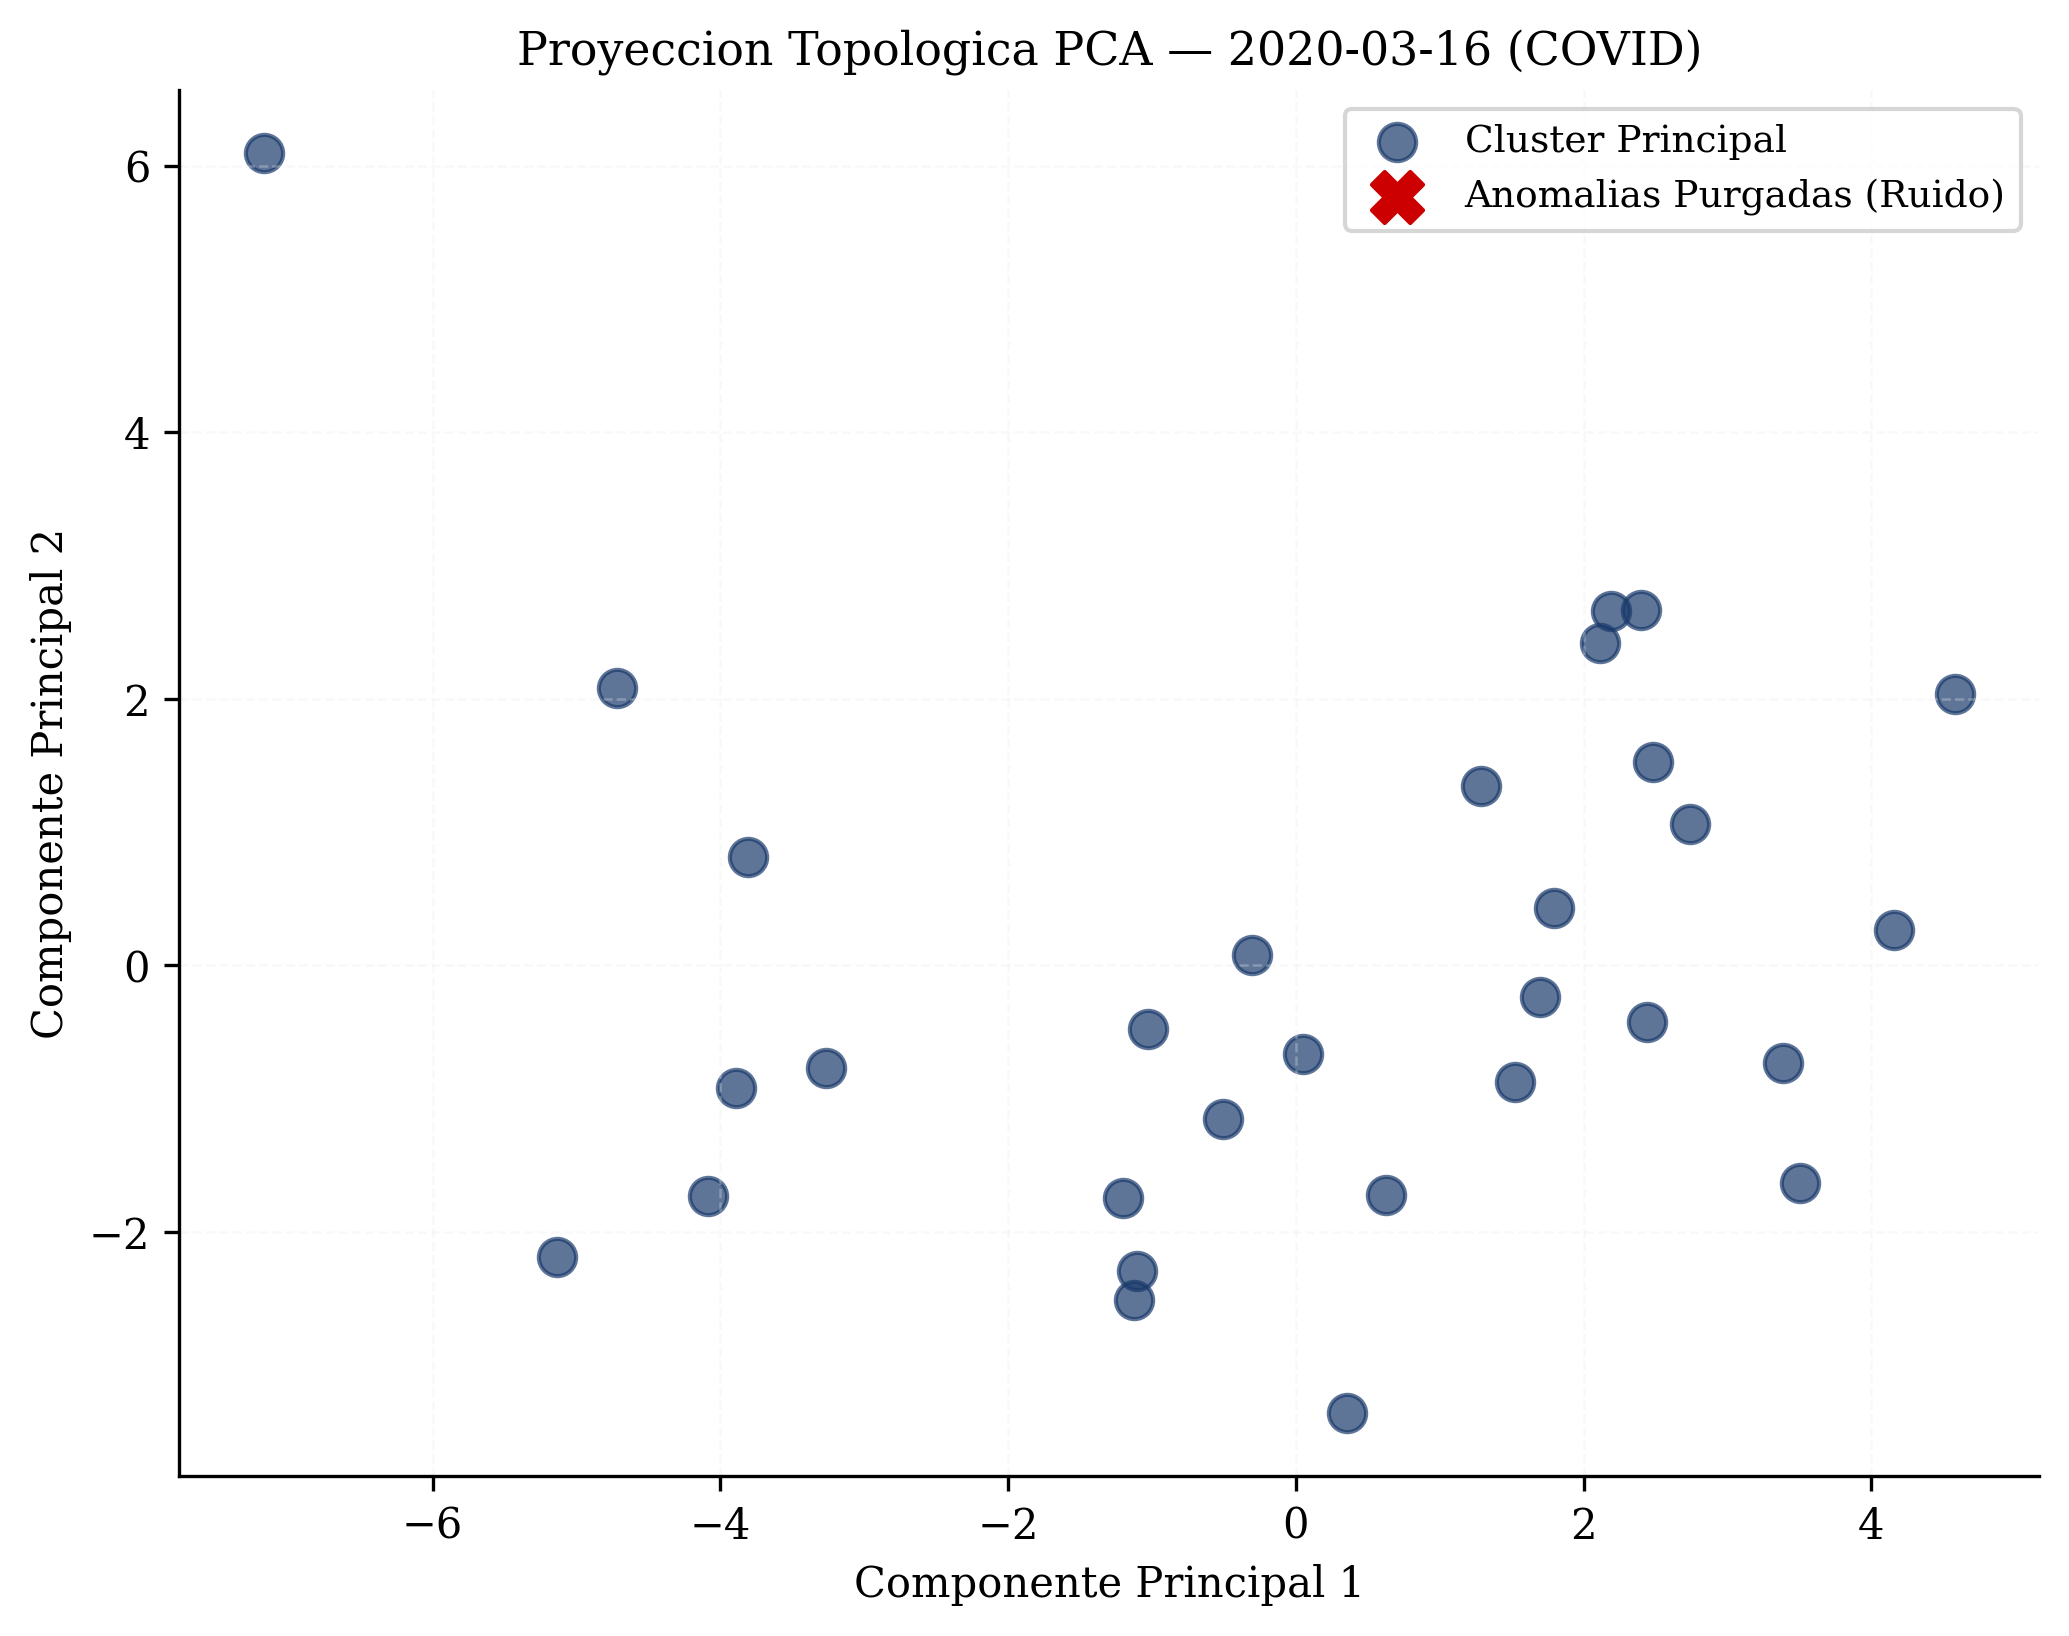
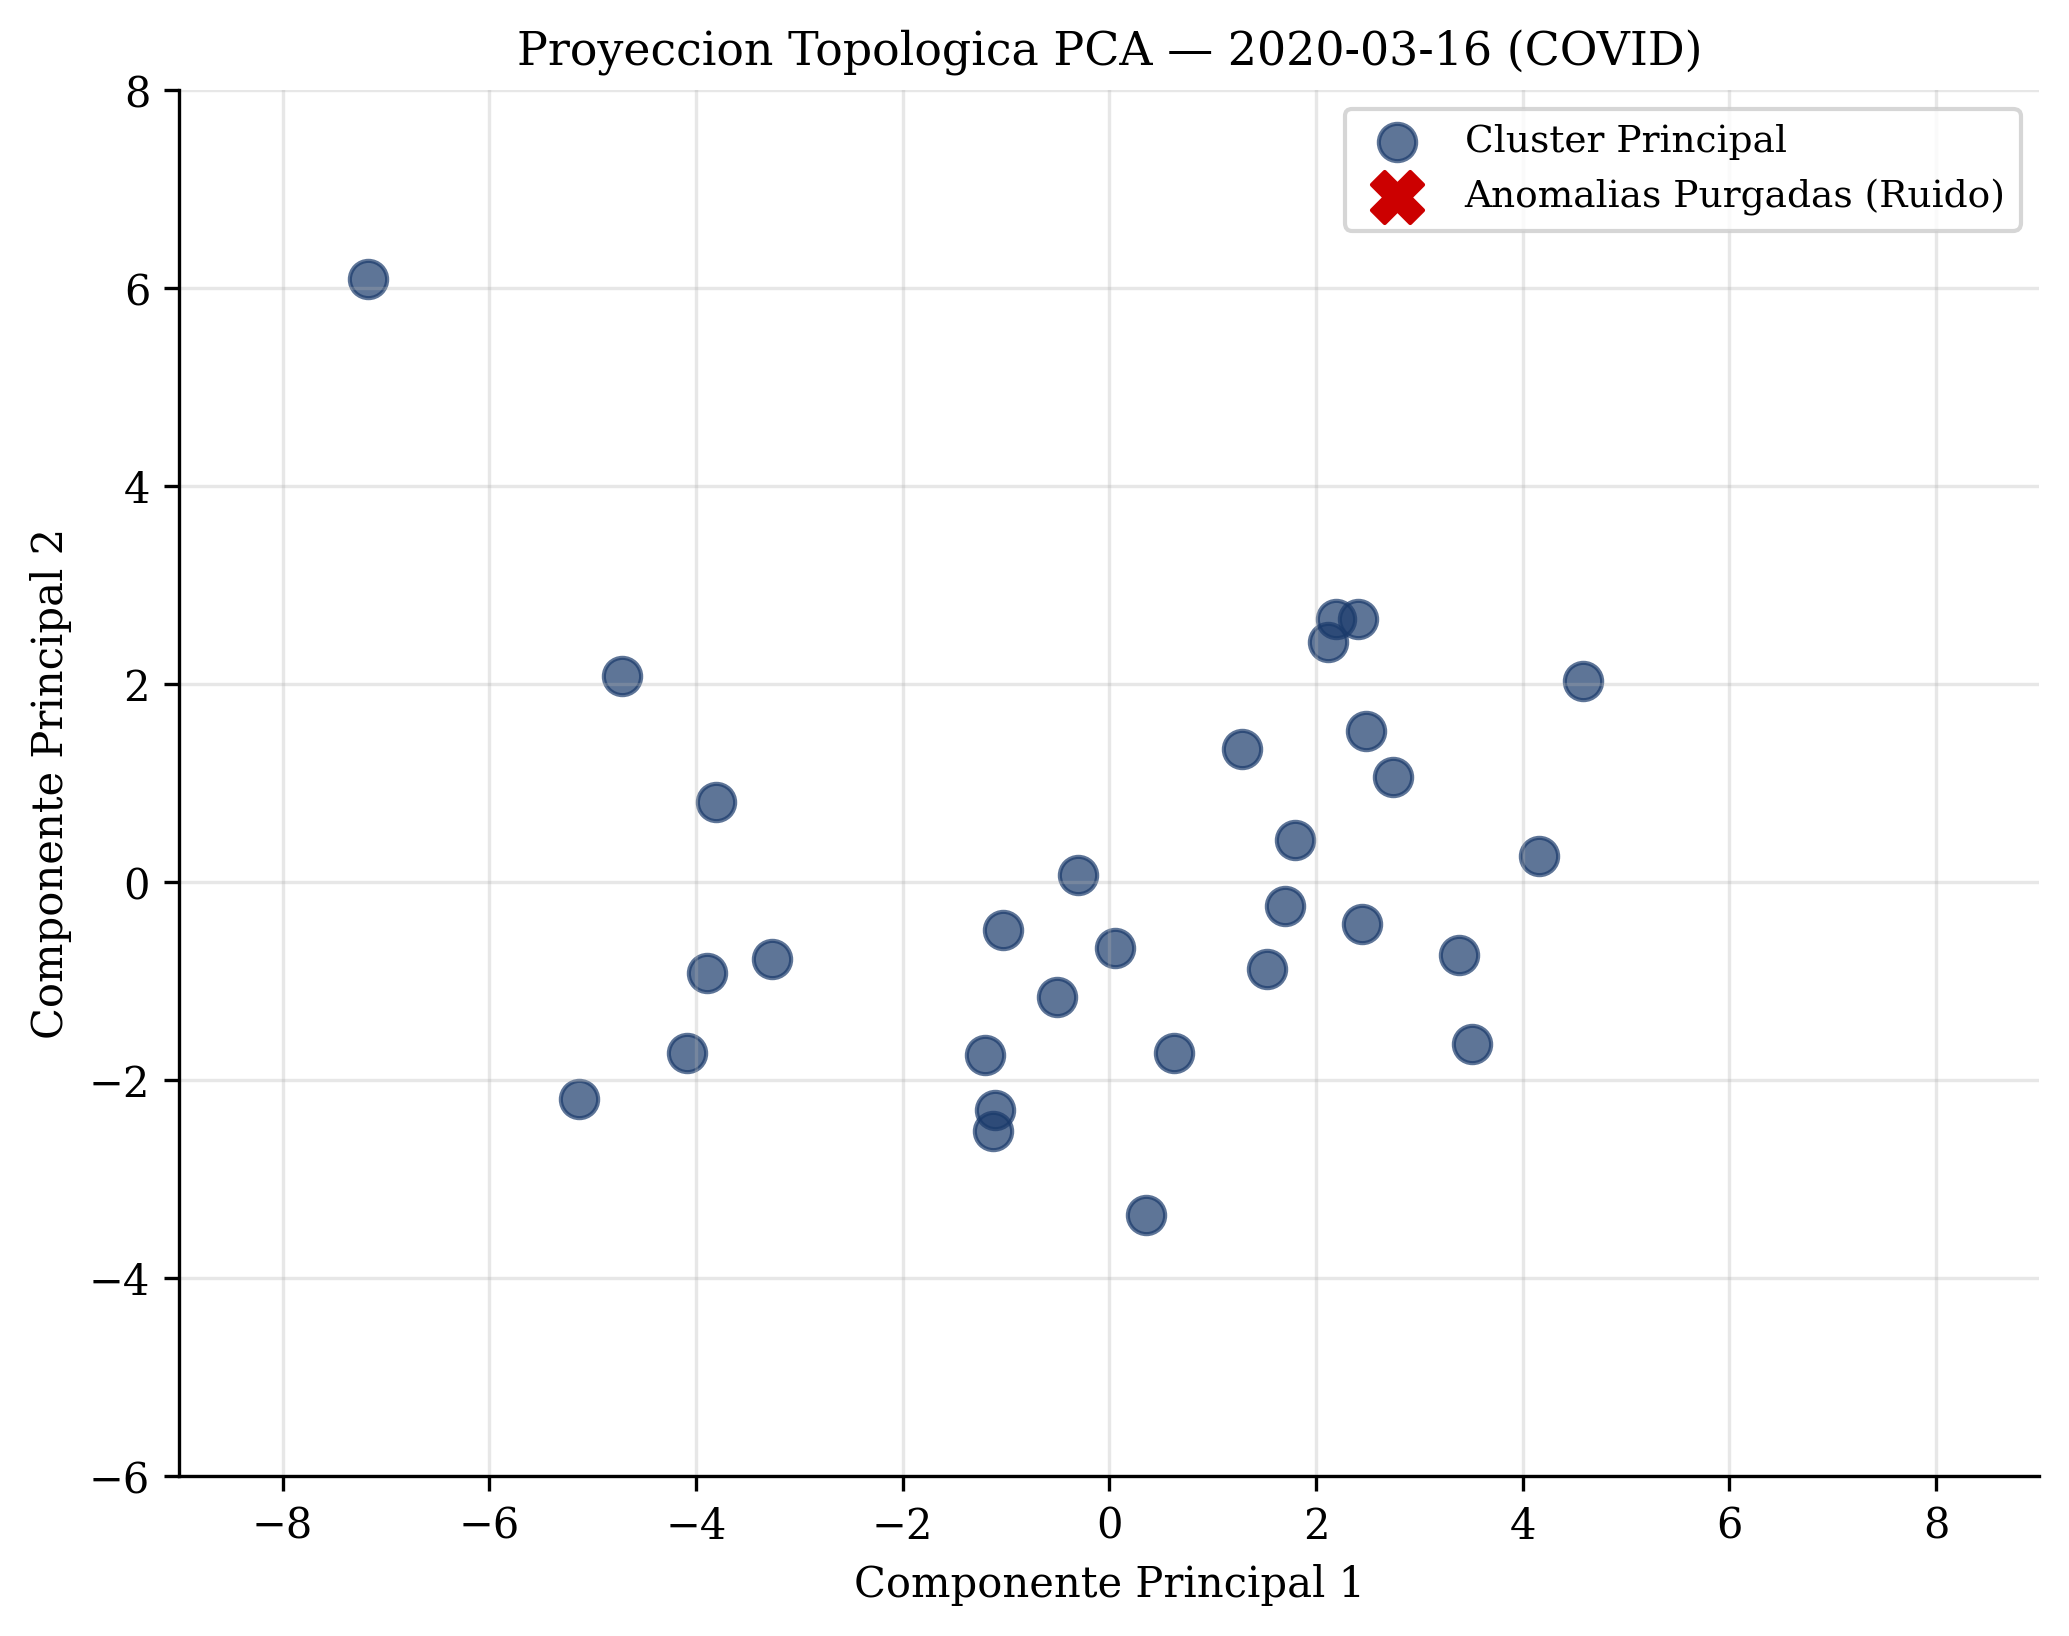
Fix: Comentadas imágenes faltantes y actualizada imagen PCA Covid

diff --git a/docs/latex/tfm.tex b/docs/latex/tfm.tex
@@ -7,6 +7,7 @@
     \renewcommand{\tablename}{Tabla}
 }
 \usepackage{caption}
+\usepackage{subcaption}
 \captionsetup{compatibility=false}
 \usepackage{xcolor}
 \usepackage{amsmath,amssymb}
@@ -629,13 +630,16 @@ En los Paneles A y B se ilustra la evolución acumulada de las carteras de ganad
 	
 	\begin{figure}[H]
 		\centering
-		\includegraphics[width=5.76667in,height=4.01906in]{media/image005.png}
+		\includegraphics[width=\textwidth]{media/image005.png}
 		\caption{\protect\phantomsection\label{_Toc227174289}{}Clasificación de activos en el espacio riesgo-rentabilidad mediante el
 			algoritmo KMeans. Los puntos sólidos representan los centroides \(\mu_{i}\)
 			calculados según la Ecuación~\eqref{eq:kmeans_centroid}, mientras que
 			las regiones sombreadas delimitan las fronteras de decisión de cada
 			clúster. Fuente: Elaboración propia.}
+	\label{fig:kmeans_example}
 	\end{figure}
+
+	En la Figura~\ref{fig:kmeans_example} se observa un ejemplo al aplicar K-Means sobre el plano riesgo-rentabilidad. Cada color representa un clúster y los puntos sólidos los centroides $\mu_i$. Se aprecia cómo los activos se organizan en grupos (alta rentabilidad-alto riesgo frente a baja rentabilidad-bajo riesgo), confirmando que el algoritmo puede capturar regímenes de mercado diferenciados a partir de las variables de entrada. En esta representación bidimensional se han utilizado únicamente dos variables (rentabilidad y volatilidad) con fines de visualización. A lo largo del informe se observará que el sistema emplea un conjunto más amplio de variables financieras, lo que permite dividir el conjunto de datos en grupos de mayor dimensionalidad, capturando relaciones más complejas entre los activos.
 
 	La convergencia local del algoritmo se logra mediante un proceso alternativo de dos pasos: asignación y actualización. En el paso de asignación, cada observación vectorial del mercado financiero se vincula de manera exclusiva al centroide más próximo bajo la norma euclídea analizada en la Ecuación~\eqref{eq:euclidean_distance}. En el paso de actualización, expresado en la Ecuación~\eqref{eq:kmeans_centroid}, la coordenada del centroide se desplaza hacia la media geométrica de su nueva población. Este bucle se repite de manera iterativa hasta que la función objetivo de la Ecuación~\eqref{eq:kmeans_wcss} estabilice su inercia global. Sin embargo, este criterio de optimización por mínimos cuadrados penaliza de forma cuadrática las distancias, provocando que cualquier punto situado en las regiones periféricas del espacio vectorial ejerza una fuerza de atracción desproporcionada sobre la trayectoria del centroide $\mu_i$.
 	
@@ -704,7 +708,10 @@ En los Paneles A y B se ilustra la evolución acumulada de las carteras de ganad
 		\caption{\protect\phantomsection\label{_Toc227174290}{}Clasificación topológica en \gls{dbscan}: Identificación de puntos núcleo,
 			frontera y ruido en función del radio $\epsilon$ y MinPts. Fuente: Elaboración
 			propia.}
+	\label{fig:dbscan_categories}
 	\end{figure}
+
+	En la Figura~\ref{fig:dbscan_categories} se muestran las tres categorías topológicas: los puntos núcleo (rojo) forman el esqueleto del clúster; los puntos frontera (amarillo) se sitúan en el perímetro; y el ruido (azul) queda aislado al no alcanzar la densidad crítica dentro del radio $\epsilon$. Esta separación visual permite entender cómo DBSCAN distingue el comportamiento mayoritario del mercado de las desviaciones catalogadas como ruido.
 
 	\begin{figure}[H]
 		\centering
@@ -1552,18 +1559,31 @@ Durante la sesión del 16 de marzo de 2020, el índice \gls{vix} alcanzó nivele
 
 \begin{figure}[H]
     \centering
-    \includegraphics[width=0.85\textwidth]{media/pca_scatter_covid.png}
-    \caption{Visualización topológica del colapso del 16 de marzo de 2020 mediante proyección \gls{pca}. La cohesión del clúster principal refleja un movimiento generalizado del mercado ante un shock externo. Fuente: Elaboración propia.}
-    \label{fig:pca_covid}
+    \begin{subfigure}{0.48\textwidth}
+        \centering
+        \includegraphics[width=\textwidth]{media/pca_scatter_covid.png}
+        \caption{Colapso del 16 de marzo de 2020: el desplazamiento conjunto del mercado mantiene la cohesión del clúster.}
+        \label{fig:pca_covid}
+    \end{subfigure}
+    \hfill
+    \begin{subfigure}{0.48\textwidth}
+        \centering
+        \includegraphics[width=\textwidth]{media/pca_scatter_anomaly.png}
+        \caption{Sesión normal del 24 de octubre de 2017: tres activos (CAT, DPZ e ITX.MC) son clasificados como ruido y purgados.}
+        \label{fig:pca_anomaly}
+    \end{subfigure}
+    \caption{Comparativa de proyecciones PCA del espacio de características en dos escenarios de mercado. Izquierda: shock sistémico sin detección de anomalías. Derecha: sesión ordinaria con identificación de activos anómalos. Fuente: Elaboración propia.}
 \end{figure}
 
-Como puede observarse en la Figura \ref{fig:pca_covid}, el algoritmo no eliminó ningún activo durante esa sesión. A pesar de las fuertes caídas registradas, los valores mantuvieron un comportamiento relativamente homogéneo entre sí dentro del espacio de características. No obstante, conviene realizar dos precisiones técnicas sobre esta representación:
+Como puede observarse en la Figura \ref{fig:pca_covid}, el algoritmo no eliminó ningún activo durante esa sesión. A pesar de las fuertes caídas registradas, los valores mantuvieron un comportamiento relativamente homogéneo entre sí dentro del espacio de características. No obstante, conviene realizar dos observaciones sobre esta representación:
 
 \begin{itemize}
     \item Efecto de la reducción de dimensionalidad: Aunque en la proyección bidimensional obtenida mediante \gls{pca} algunos activos puedan aparecer en posiciones periféricas, esto responde en muchos casos a una limitación propia de la representación visual. Al reducir un espacio multidimensional a dos componentes principales, parte de la información se pierde. Sin embargo, en el espacio original, dichos activos continúan situándose dentro de las distancias permitidas por el radio $\epsilon_t$ calculado por el modelo.
 
     \item Adaptabilidad del radio de vecindad: En días de volatilidad elevada, la dispersión natural entre observaciones aumenta. Gracias al cálculo dinámico del percentil 90 de distancias, el umbral $\epsilon_t$ se amplía automáticamente, permitiendo que el clúster principal incorpore el movimiento conjunto del mercado sin clasificar erróneamente activos válidos como ruido.
 \end{itemize}
+
+Para contrastar, la Figura~\ref{fig:pca_anomaly} muestra una sesión de mercado normal donde el filtro topológico sí identificó activos cuyo comportamiento se desviaba del resto. Los tres activos señalados (CAT, DPZ e ITX.MC) superaron el umbral de densidad $\epsilon_t$ establecido por el percentil~90 de distancias, siendo etiquetados como anomalías y eliminados de la matriz de datos. Esta evidencia completa la validación del sistema: cuando existen datos anómalos, DBSCAN los identifica y purga; cuando el movimiento es homogéneo (como en el colapso de 2020), los mantiene, evitando la pérdida de información relevante.
 
 En definitiva, este sistema de filtrado actúa como una herramienta de depuración inteligente. Permite eliminar ruido sin perder la información relevante asociada a los grandes movimientos del mercado, garantizando que la matriz resultante ($\tilde{X}$) conserve una estructura limpia. Este paso facilita posteriormente que el algoritmo \gls{kmeans} converja de forma más estable y pueda identificar los distintos regímenes de mercado en las fases posteriores del estudio.
 